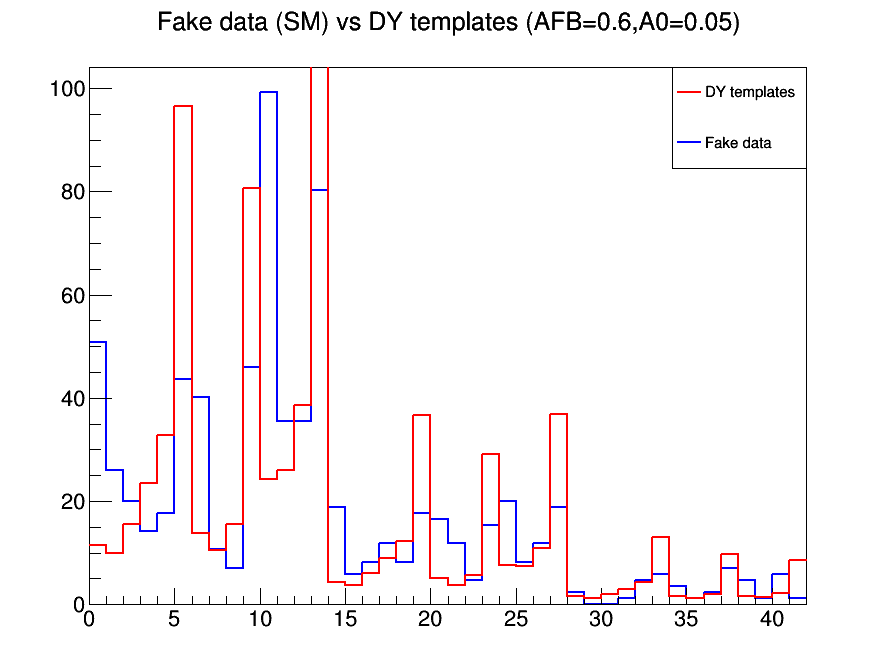
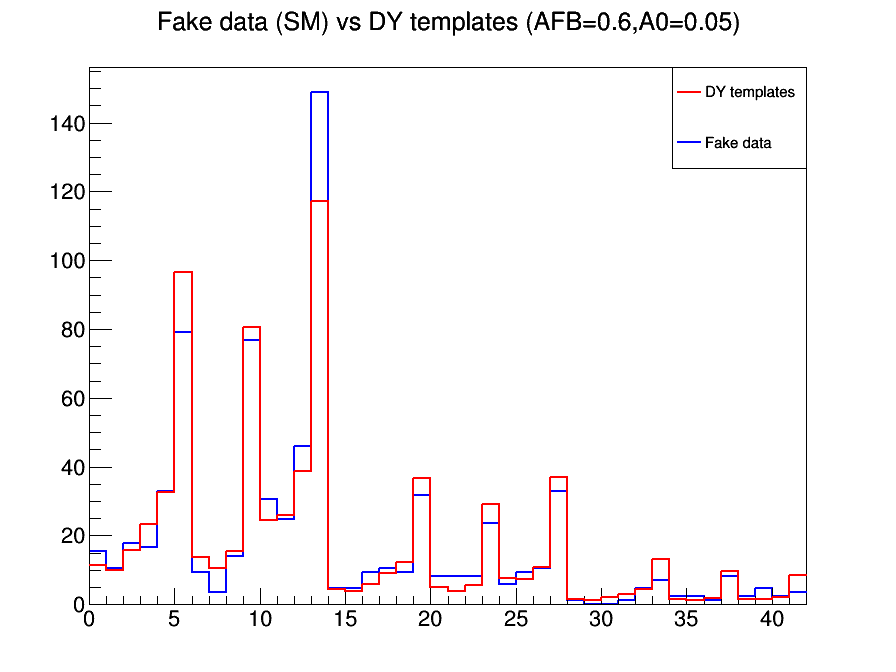
negcos

diff --git a/utils/LQ_TemplateMaker_systematics.C b/utils/LQ_TemplateMaker_systematics.C
@@ -1094,11 +1094,11 @@ void fixup_template_sum(TH3F *h_sym, TH3F *h_asym){
       m = cm.M();
       float pt = cm.Pt();
       float rap = abs(cm.Rapidity());
-      float gen_cost = get_cost(*gen_lep_p, *gen_lep_m, false);
+      float gen_cost = -1.*get_cost(*gen_lep_p, *gen_lep_m, false);
             //flip the sign of cost based on eta of quark - currently it is assumed that quark is moving in +z direction
       if(inc_id1 > 0) q = *gen_q1;
       else if(inc_id2 > 0) q = *gen_q2;
-      //if(q.Eta() < 0. ) gen_cost*=-1.;
+      if(q.Eta() < 0. ) gen_cost*=-1.;
             //else if(inc_id2 > 0 && gen_q2.Eta() < 0.) gen_cost*=-1.;
 
             bool pass = m > lq_m_bins[0]; //&& abs(gen_lep_p->Eta()) < 2.4 && abs(gen_lep_m->Eta()) < 2.4 && min(gen_lep_m->Pt(), gen_lep_p->Pt()) > 15.;

diff --git a/analyze/combine/LQ_make_gen_templates.C b/analyze/combine/LQ_make_gen_templates.C
@@ -233,7 +233,7 @@ void LQ_make_gen_templates(){
         leg1->AddEntry(h1_total, "DY templates", "l");
         leg1->AddEntry(h1_data, "Fake data", "l");
         leg1->Draw();
-        sprintf(title, "../generator_stuff/plots/data_vs_total_SM_noflip_%i.png", year %2000);
+        sprintf(title, "../generator_stuff/plots/data_vs_total_SM_negcos_%i.png", year %2000);
         c_mumu1->Print(title);
         delete c_mumu1;
 
